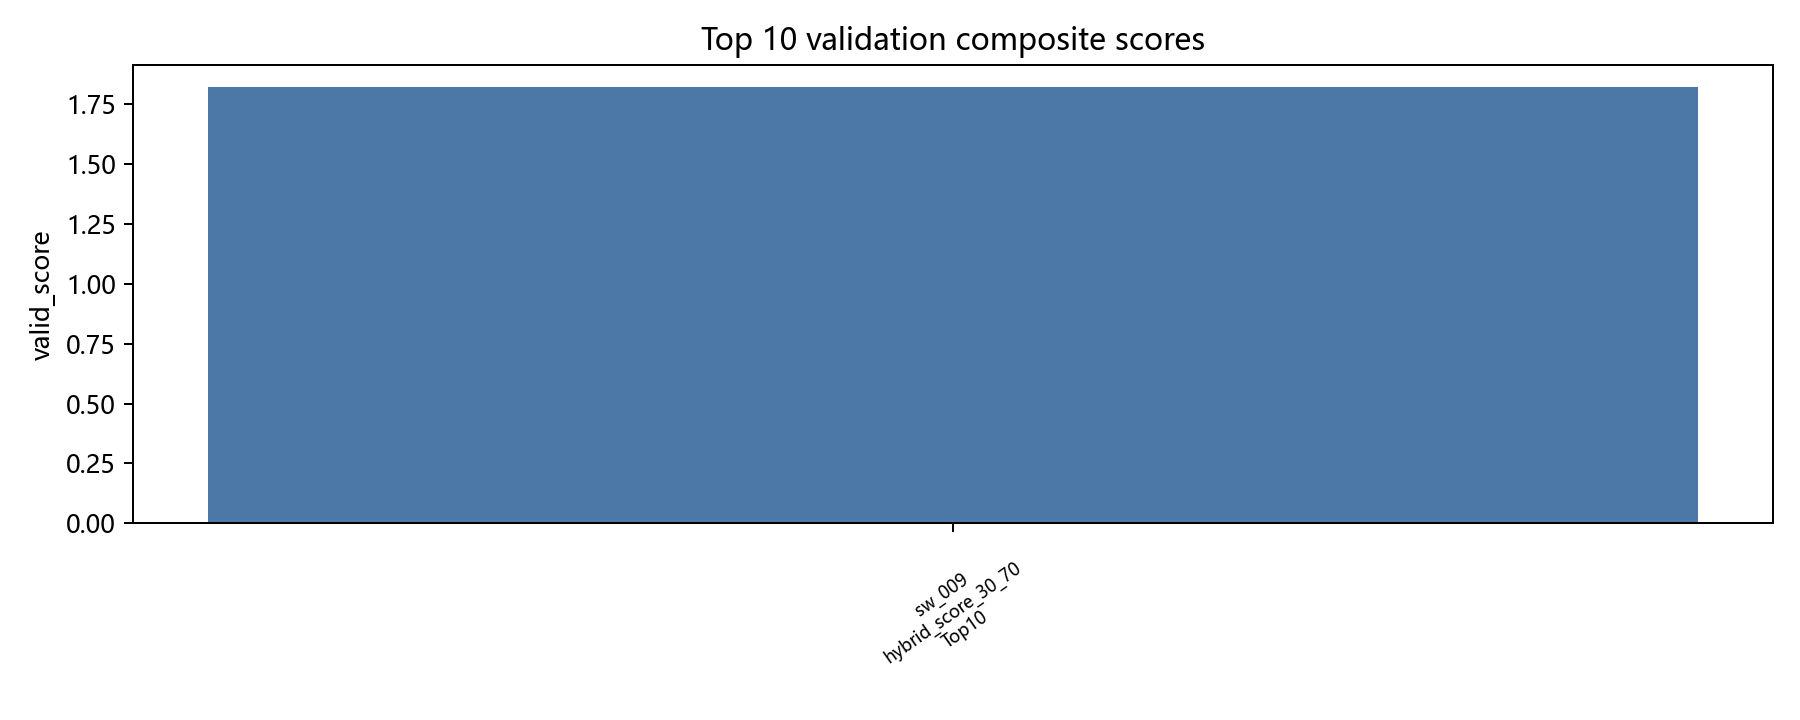
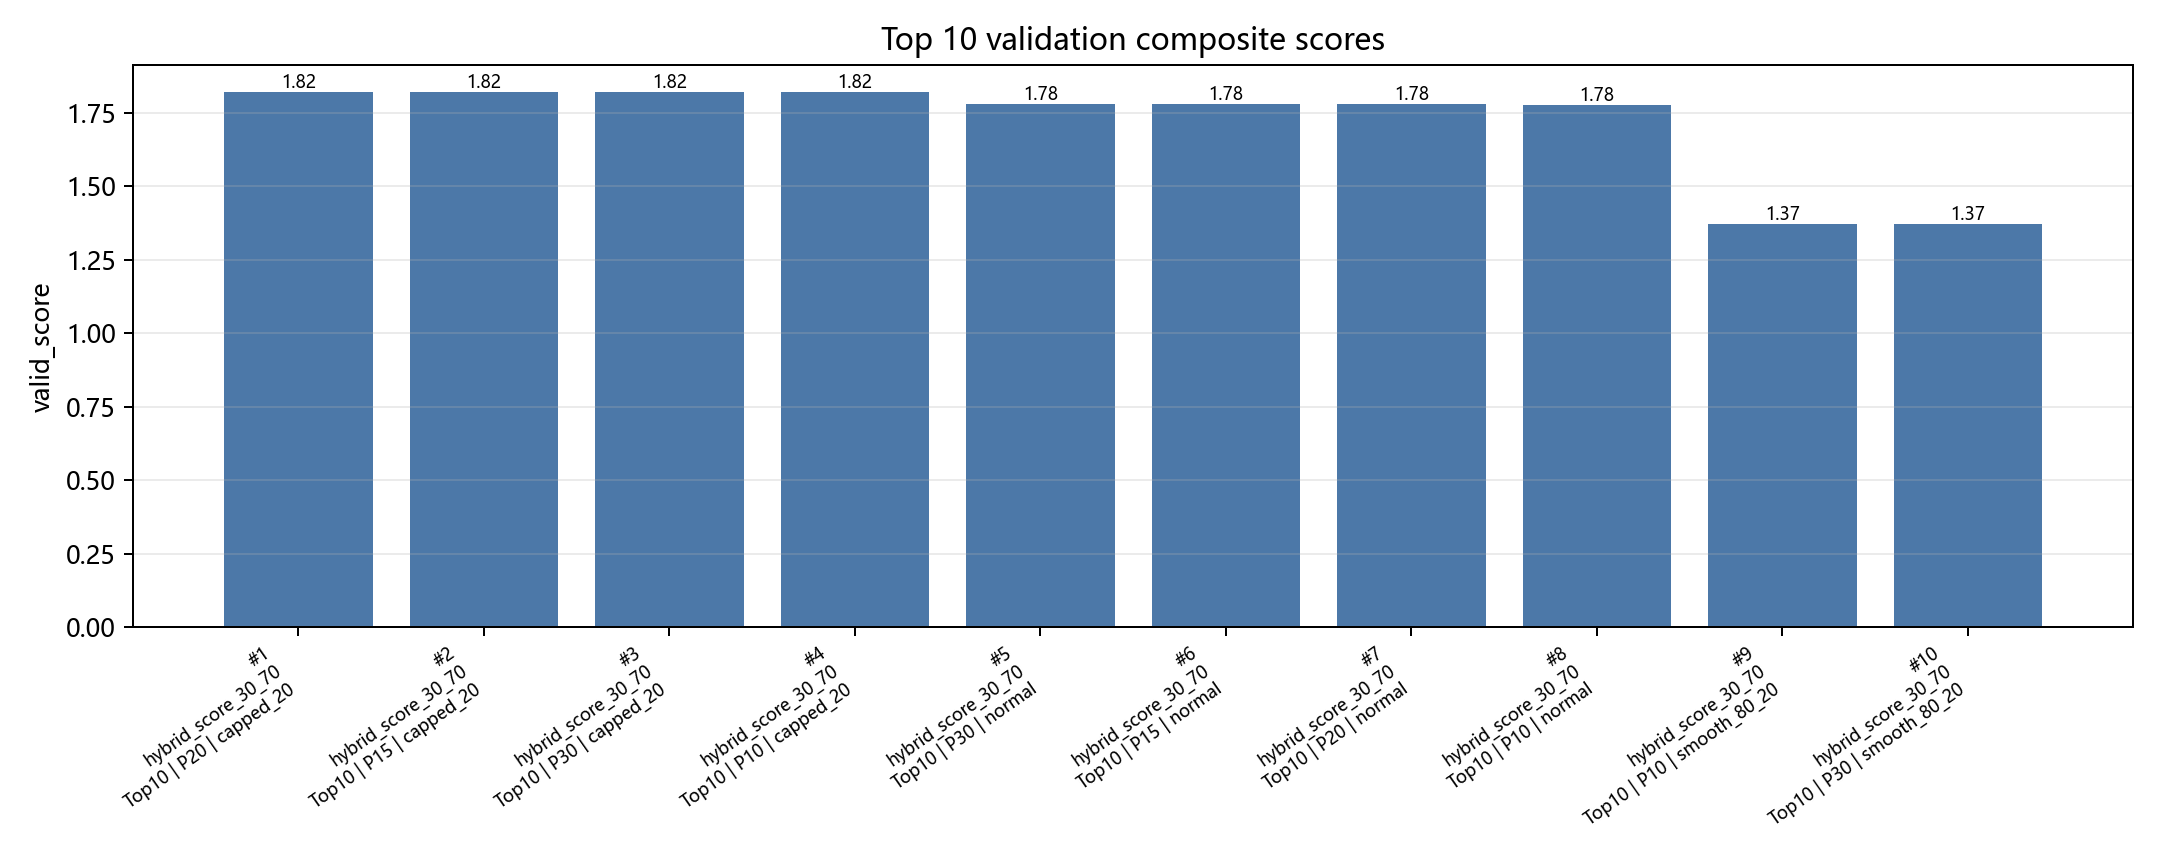
Fix validation score visualization labels

diff --git a/scripts/06_generate_additional_visualizations.py b/scripts/06_generate_additional_visualizations.py
@@ -37,6 +37,36 @@ def load_config() -> dict:
     return json.loads(p.read_text(encoding="utf-8"))
 
 
+def fig_optimization_valid_score_top10_fixed() -> Path:
+    plt = configure_matplotlib()
+    log_path = OUT / "optimization_experiment_log.csv"
+    if log_path.exists():
+        log = pd.read_csv(log_path, encoding="utf-8-sig")
+    else:
+        log = pd.read_csv(OUT / "final_algorithm_comparison_summary.csv", encoding="utf-8-sig")
+    top = log.sort_values("valid_score", ascending=False).head(10).copy().reset_index(drop=True)
+    top["plot_label"] = [
+        f"#{i + 1}\n{row.hybrid_score_name}\nTop{int(row.top_k)} | P{int(row.promethee_top_n) if pd.notna(row.promethee_top_n) else '-'} | {row.entropy_weight_method}"
+        for i, row in top.iterrows()
+    ]
+    colors = np.where(top.get("selected_as_final", False).astype(bool), "#59A14F", "#4C78A8")
+
+    fig, ax = plt.subplots(figsize=(12, 4.8))
+    bars = ax.bar(np.arange(len(top)), top["valid_score"], color=colors)
+    ax.set_xticks(np.arange(len(top)))
+    ax.set_xticklabels(top["plot_label"], rotation=35, ha="right", fontsize=7)
+    ax.set_ylabel("valid_score")
+    ax.set_title("Top 10 validation composite scores")
+    ax.grid(axis="y", alpha=0.25)
+    for bar, value in zip(bars, top["valid_score"]):
+        ax.text(bar.get_x() + bar.get_width() / 2, value, f"{value:.2f}", ha="center", va="bottom", fontsize=7)
+    fig.tight_layout()
+    out = FIG / "fig_optimization_valid_score_top10.png"
+    fig.savefig(out, dpi=180)
+    plt.close(fig)
+    return out
+
+
 def fig_rankic_split_summary() -> Path:
     plt = configure_matplotlib()
     rankic = pd.read_csv(OUT / "stagewise_quarterly_rankic.csv", encoding="utf-8-sig")
@@ -363,6 +393,7 @@ def fig_turnover_and_holding_count() -> Path:
 def main() -> None:
     FIG.mkdir(exist_ok=True)
     generated = [
+        fig_optimization_valid_score_top10_fixed(),
         fig_rankic_split_summary(),
         fig_top20_return_vs_benchmark(),
         fig_top20_equity_drawdown(),

diff --git a/run_stagewise_optimization.py b/run_stagewise_optimization.py
@@ -844,12 +844,21 @@ def plot_outputs(log: pd.DataFrame, selected: pd.DataFrame, rankic: pd.DataFrame
     plt.rcParams["font.sans-serif"] = ["Microsoft YaHei", "SimHei", "DejaVu Sans"]
     plt.rcParams["axes.unicode_minus"] = False
 
-    top = log.sort_values("valid_score", ascending=False).head(10).copy()
+    top = log.sort_values("valid_score", ascending=False).head(10).copy().reset_index(drop=True)
+    top["plot_label"] = [
+        f"#{i + 1}\n{row.hybrid_score_name}\nTop{int(row.top_k)} | P{int(row.promethee_top_n) if pd.notna(row.promethee_top_n) else '-'} | {row.entropy_weight_method}"
+        for i, row in top.iterrows()
+    ]
     fig, ax = plt.subplots(figsize=(10, 4))
-    ax.bar(top["experiment_id"].astype(str) + "\n" + top["hybrid_score_name"].astype(str) + "\nTop" + top["top_k"].astype(str), top["valid_score"], color="#4C78A8")
+    colors = np.where(top.get("selected_as_final", False).astype(bool), "#59A14F", "#4C78A8")
+    bars = ax.bar(np.arange(len(top)), top["valid_score"], color=colors)
+    ax.set_xticks(np.arange(len(top)))
+    ax.set_xticklabels(top["plot_label"], rotation=35, ha="right", fontsize=7)
     ax.set_title("Top 10 validation composite scores")
     ax.set_ylabel("valid_score")
-    ax.tick_params(axis="x", rotation=35, labelsize=7)
+    ax.grid(axis="y", alpha=0.25)
+    for bar, value in zip(bars, top["valid_score"]):
+        ax.text(bar.get_x() + bar.get_width() / 2, value, f"{value:.2f}", ha="center", va="bottom", fontsize=7)
     fig.tight_layout()
     fig.savefig(FIG / "fig_optimization_valid_score_top10.png", dpi=180)
     plt.close(fig)
